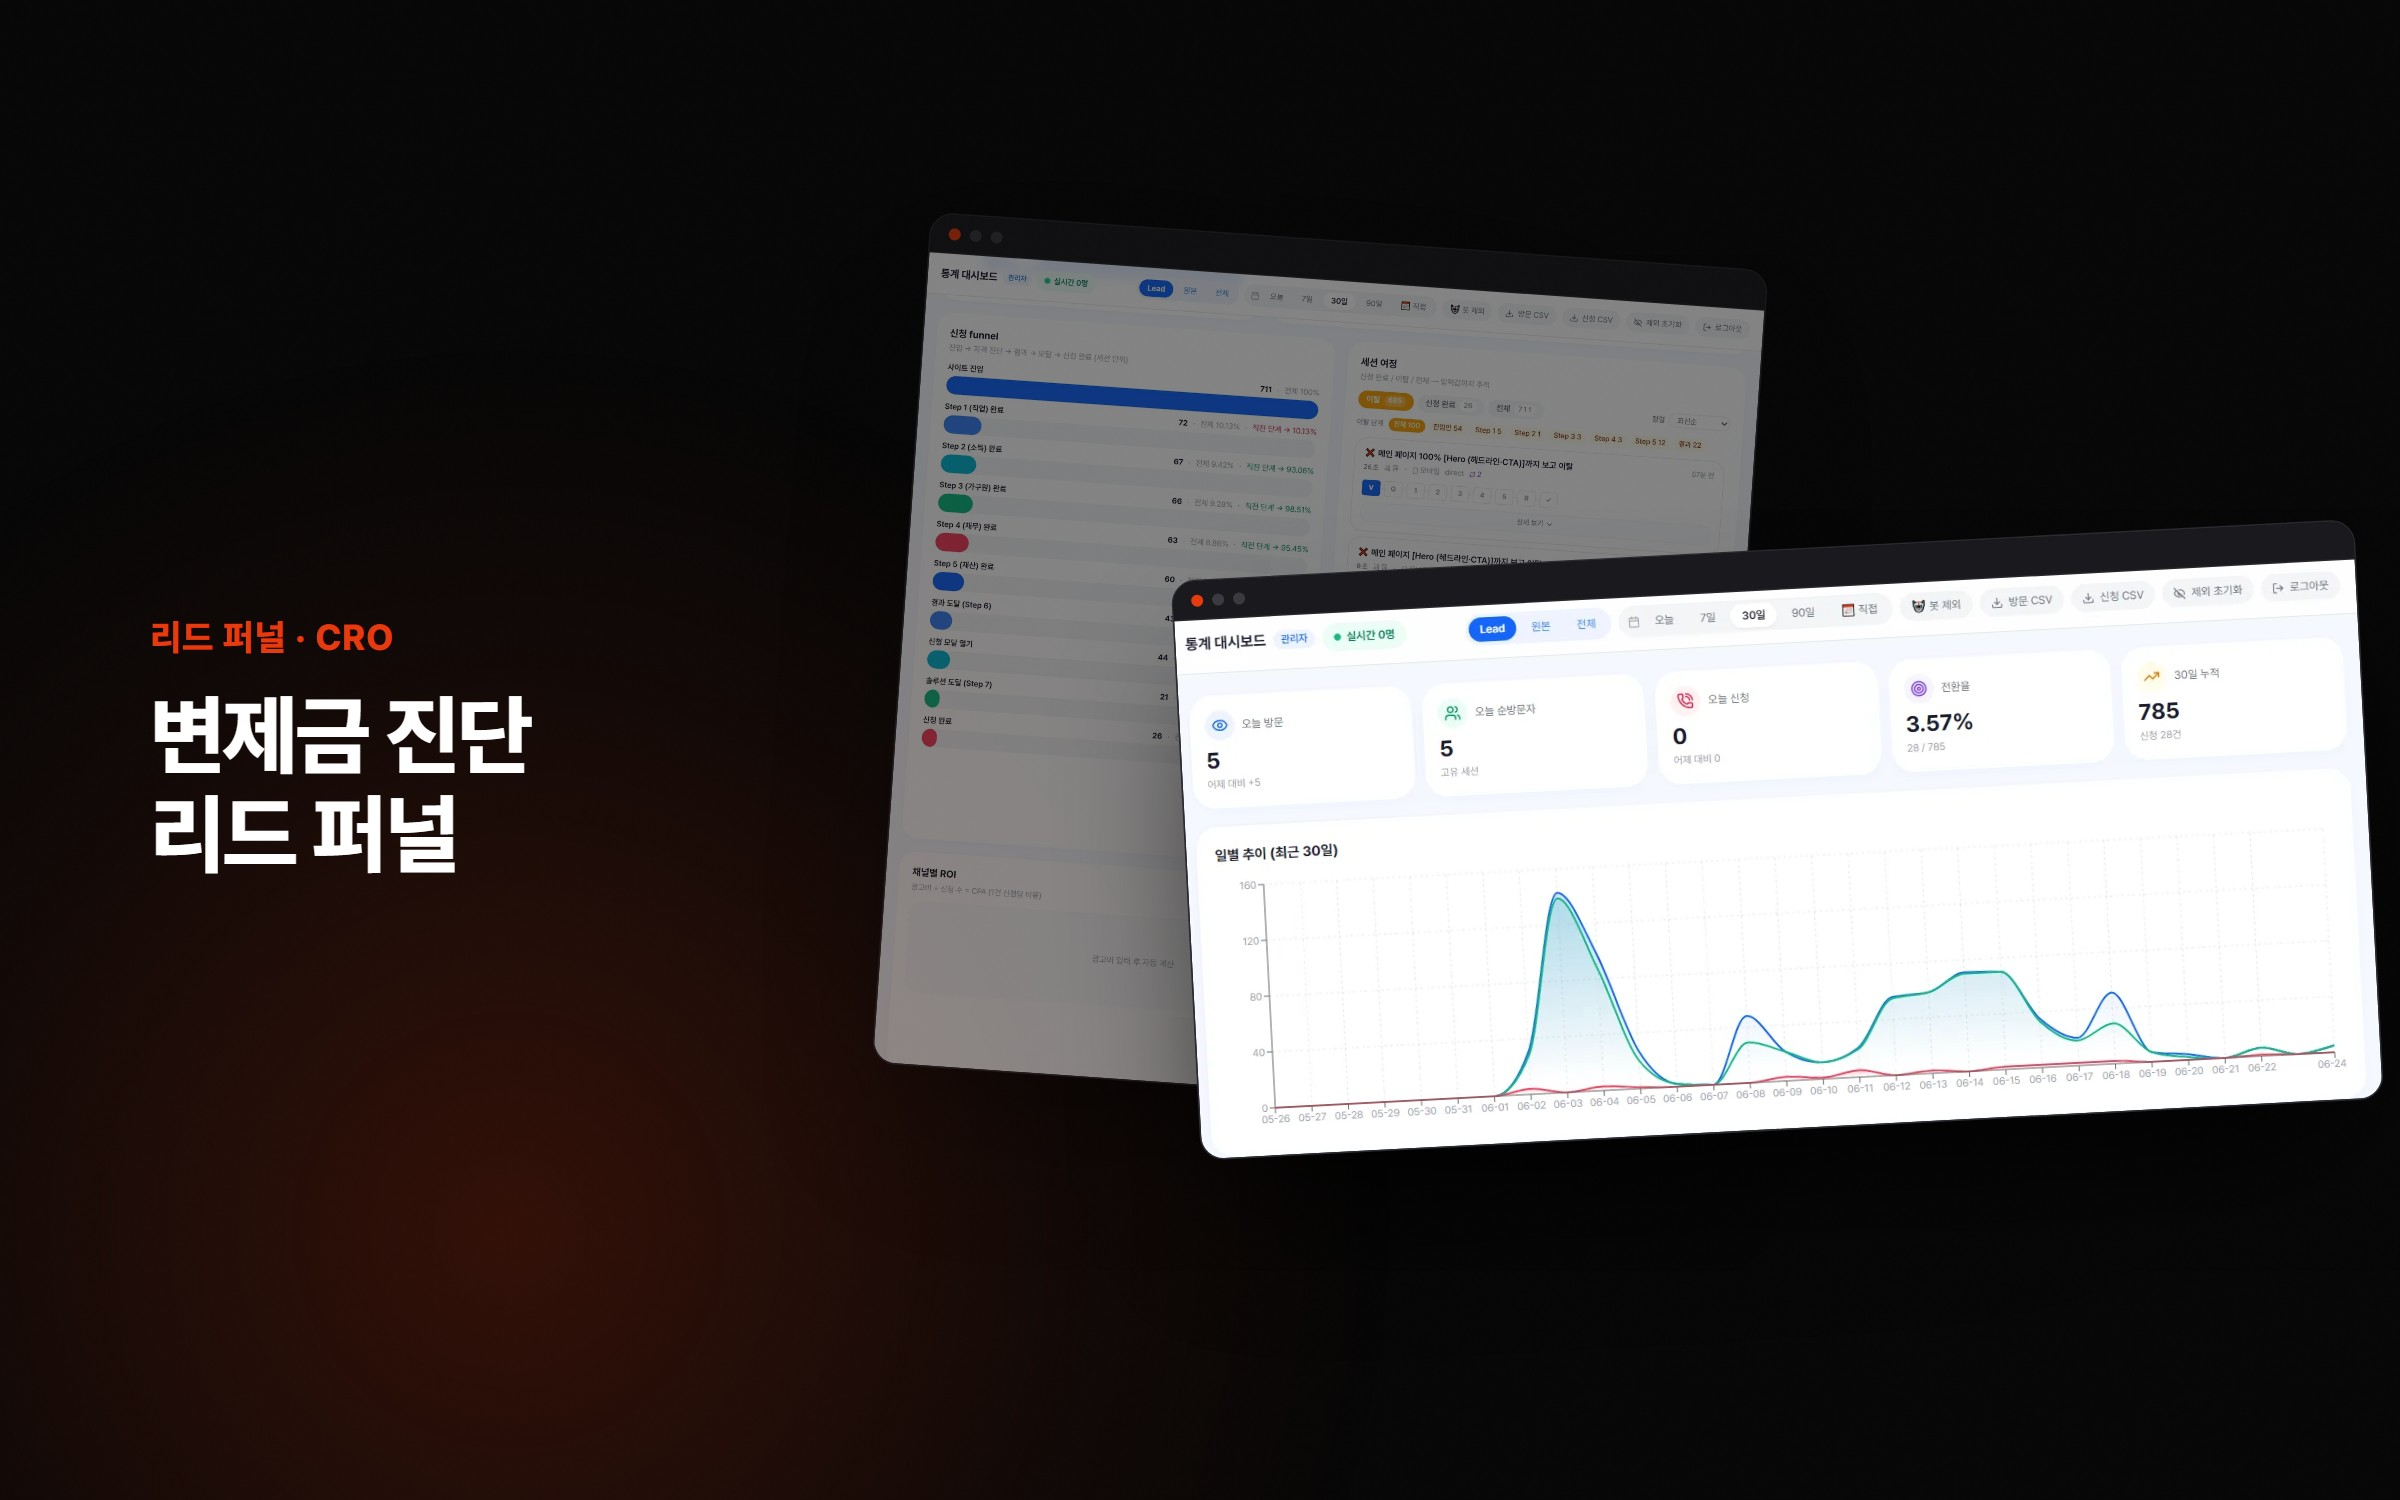
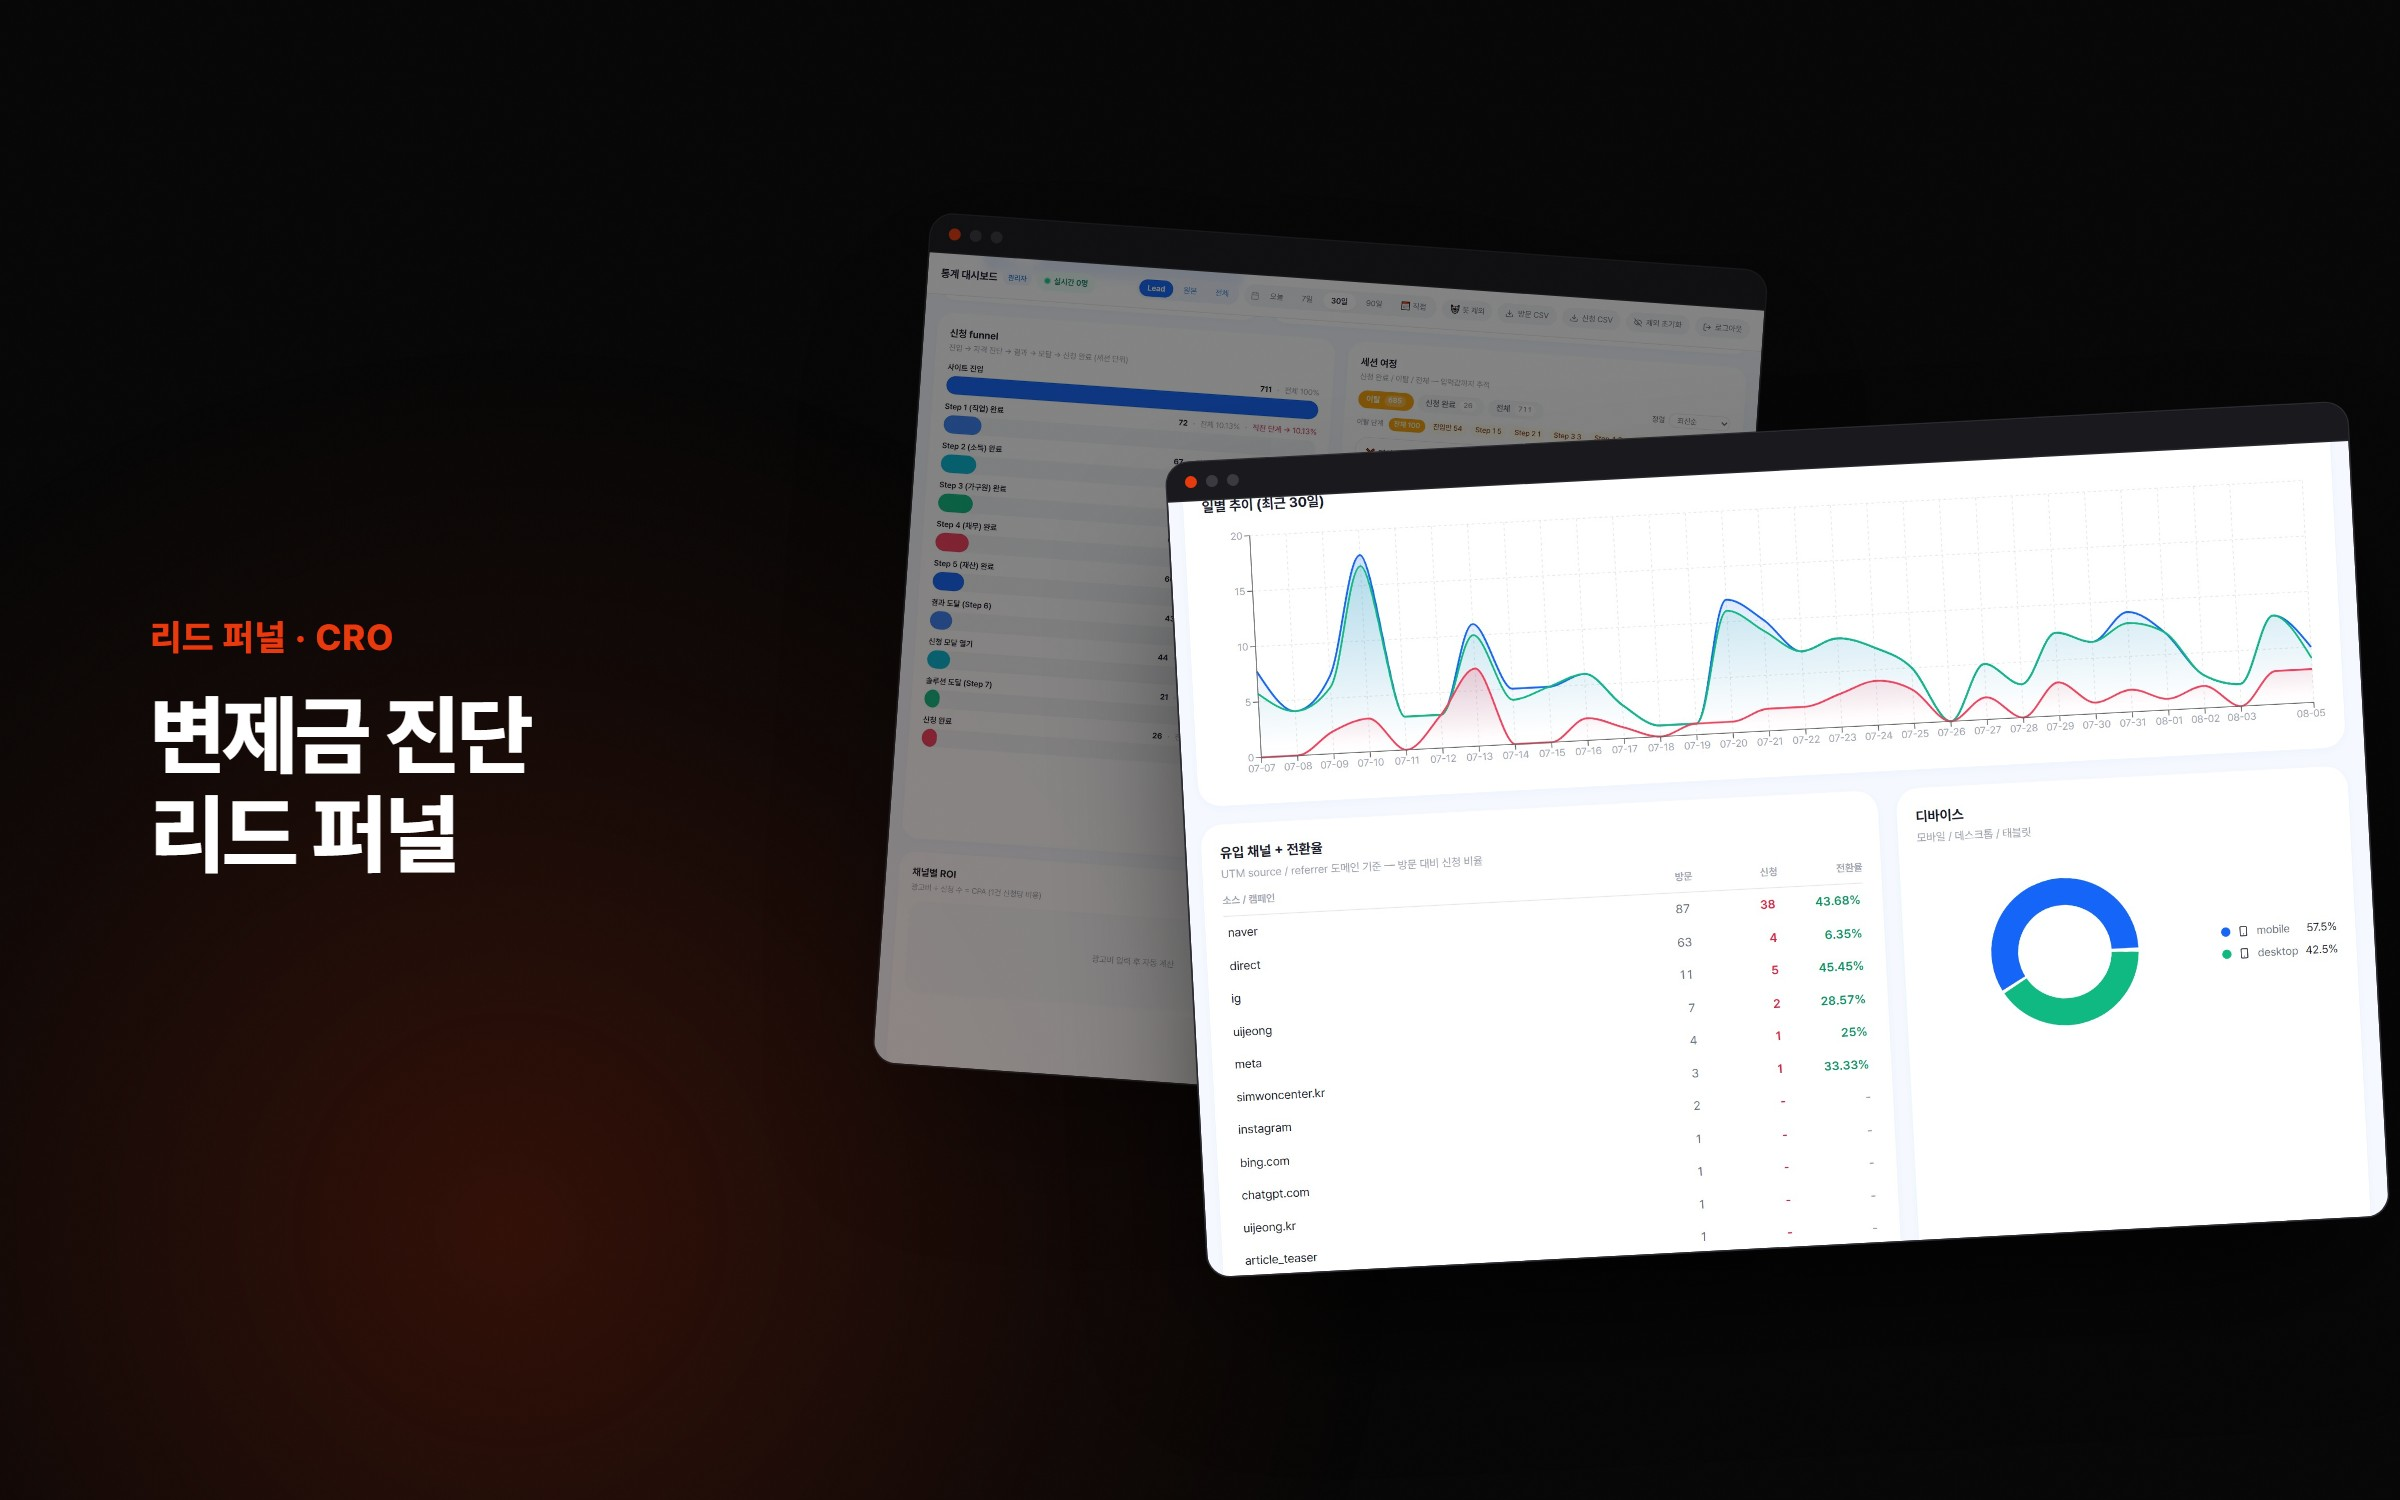
리드 퍼널 케이스 보강: 채널별 전환 실측(네이버 43.68% vs 콜드 6~7%, 약 7배) + 최신 대시보드 컷
- 스테일 admin 이미지 2종 → 최근 30일 실측 대시보드(lead-stats: 추이+채널전환+디바이스) 1컷으로 교체
- 지표 갱신(네이버 43.68%·인스타 45.45%·약 7배 격차) + metricsNote로 실측 출처/표본 맥락 명시
- proves·결과에 '유입 질이 전환을 가른다' 채널 인사이트 반영, 커버도 최신 데이터로 재생성
- 정직성: 원 방문수(87/63/11…)가 이미지에 그대로 보여 과장 없음

diff --git a/app/data.ts b/app/data.ts
@@ -171,7 +171,7 @@ export const projects: Project[] = [
     oneLiner:
       "법률 상담 신청을 끌어내는 다단계 진단 퍼널과 멀티채널 리드 수집 시스템.",
     proves:
-      "‘검색 → 유입 → 전환’이라는 내 마케팅 철학을, 전환을 설계하는 진단 퍼널로 직접 구현한 도구.",
+      "‘검색 → 유입 → 전환’ 철학을 진단 퍼널로 직접 구현하고, 콘텐츠 유입이 콜드 트래픽의 약 7배로 전환(네이버 43.68% vs 다이렉트 6~7%)됨을 직접 만든 관리자 대시보드로 실측·증명한 도구.",
     bullets: [
       "소득·재산·자격을 진단하는 다단계 마법사 → 자격 충족자에게만 결과 직전 연락처 게이팅(가치 높은 리드만 수집)",
       "유입 경로별 source 태깅으로 채널별 전환 추적, 텔레그램·구글시트·DB 멀티채널 리드 실시간 알림",
@@ -191,14 +191,9 @@ export const projects: Project[] = [
         note: "소득·재산·자격을 하나씩 물으며 몰입을 만든다. 방문자가 자기 상황을 스스로 확인하게 한 뒤, 결과(예상 변제금) 직전에만 연락처를 받아 ‘전환 의지 높은 리드’만 수집한다.",
       },
       {
-        src: "/projects/lead-admin.webp",
-        caption: "운영 대시보드 — 방문·신청·전환율",
-        note: "직접 만든 관리자 화면. 오늘 방문·신청, 전환율(3.57%), 30일 누적 785건과 일별 추이를 실시간으로 본다. Lead·원본·전체 소스를 구분해 광고 채널만 따로 추적.",
-      },
-      {
-        src: "/projects/lead-admin-2.webp",
-        caption: "유입 채널별 전환율 + 디바이스",
-        note: "UTM source·referrer 기준 채널별 ‘방문 대비 신청’ 전환율. 네이버 31%·심원센터 37.5%처럼 어느 채널이 진짜 전환되는지를 데이터로 본다(방문 75%는 모바일).",
+        src: "/projects/lead-stats.jpg",
+        caption: "운영 대시보드 — 30일 추이 + 채널별 전환 + 디바이스",
+        note: "직접 만든 관리자 화면(최근 30일 실측). 위는 방문·신청 일별 추이, 아래는 UTM·referrer 기준 채널별 ‘방문→신청’ 전환율. 콘텐츠 유입(네이버 43.68%·인스타 45.45%)이 콜드 다이렉트(6~7%)의 약 7배로 전환된다 — ‘전환은 트래픽 질 × 퍼널 설계’임을 데이터로 보여준다.",
       },
       {
         src: "/projects/lead-funnel.webp",
@@ -224,14 +219,15 @@ export const projects: Project[] = [
       ],
       result: [
         "모든 방문자에게 연락처를 요구하던 방식을 결과 직전 게이팅으로 바꿔, 상담팀이 받는 리드가 ‘문의만 하고 사라지는 사람’에서 ‘자격이 확인된 사람’으로 바뀌었다.",
-        "유입 채널별 전환·이탈을 한 화면에서 보게 되면서, 광고 예산을 감이 아니라 채널 전환 데이터로 조정할 수 있게 됐다.",
+        "직접 만든 대시보드로 채널별 ‘방문→신청’ 전환을 실측하니, 콘텐츠 유입(네이버 43.68%·인스타 45.45%)이 콜드 다이렉트(6~7%)의 약 7배로 전환됐다 — ‘어떤 트래픽이 진짜 전환되는지’를 데이터로 확인해 예산을 그쪽으로 몰 수 있게 됐다.",
         "새 리드가 텔레그램·구글시트·DB로 실시간 전달돼, 상담팀이 놓치지 않고 즉시 대응하는 구조가 갖춰졌다.",
       ],
       metrics: [
-        { value: "3.57%", label: "방문→신청 전환율" },
-        { value: "785", label: "30일 누적 방문" },
-        { value: "28건", label: "상담 신청" },
+        { value: "43.68%", label: "네이버 유입 방문→신청" },
+        { value: "45.45%", label: "인스타 유입 방문→신청" },
+        { value: "약 7배", label: "콘텐츠 유입 vs 콜드 전환 격차" },
       ],
+      metricsNote: "※ sinyong-toktok-lead 관리자 최근 30일 실측(UTM·referrer 기준 방문→신청). 콜드 다이렉트는 6~7%대 — 유입 질이 전환을 가른다.",
       takeaway:
         "‘검색 → 유입 → 전환’이라는 마케팅 철학을, 방문자의 불안 심리를 읽은 다단계 진단·게이팅 퍼널로 직접 코드까지 구현해낸 프로젝트.",
     },

diff --git a/app/imageSizes.ts b/app/imageSizes.ts
@@ -100,14 +100,6 @@ export const IMG_SIZES: Record<string, { w: number; h: number }> = {
     "w": 1586,
     "h": 826
   },
-  "/projects/lead-admin-2.webp": {
-    "w": 1288,
-    "h": 632
-  },
-  "/projects/lead-admin.webp": {
-    "w": 1268,
-    "h": 578
-  },
   "/projects/lead-funnel-cover.jpg": {
     "w": 2400,
     "h": 1500
@@ -119,6 +111,10 @@ export const IMG_SIZES: Record<string, { w: number; h: number }> = {
   "/projects/lead-hd.jpg": {
     "w": 860,
     "h": 1864
+  },
+  "/projects/lead-stats.jpg": {
+    "w": 2042,
+    "h": 1341
   },
   "/projects/lead-step.webp": {
     "w": 1600,
